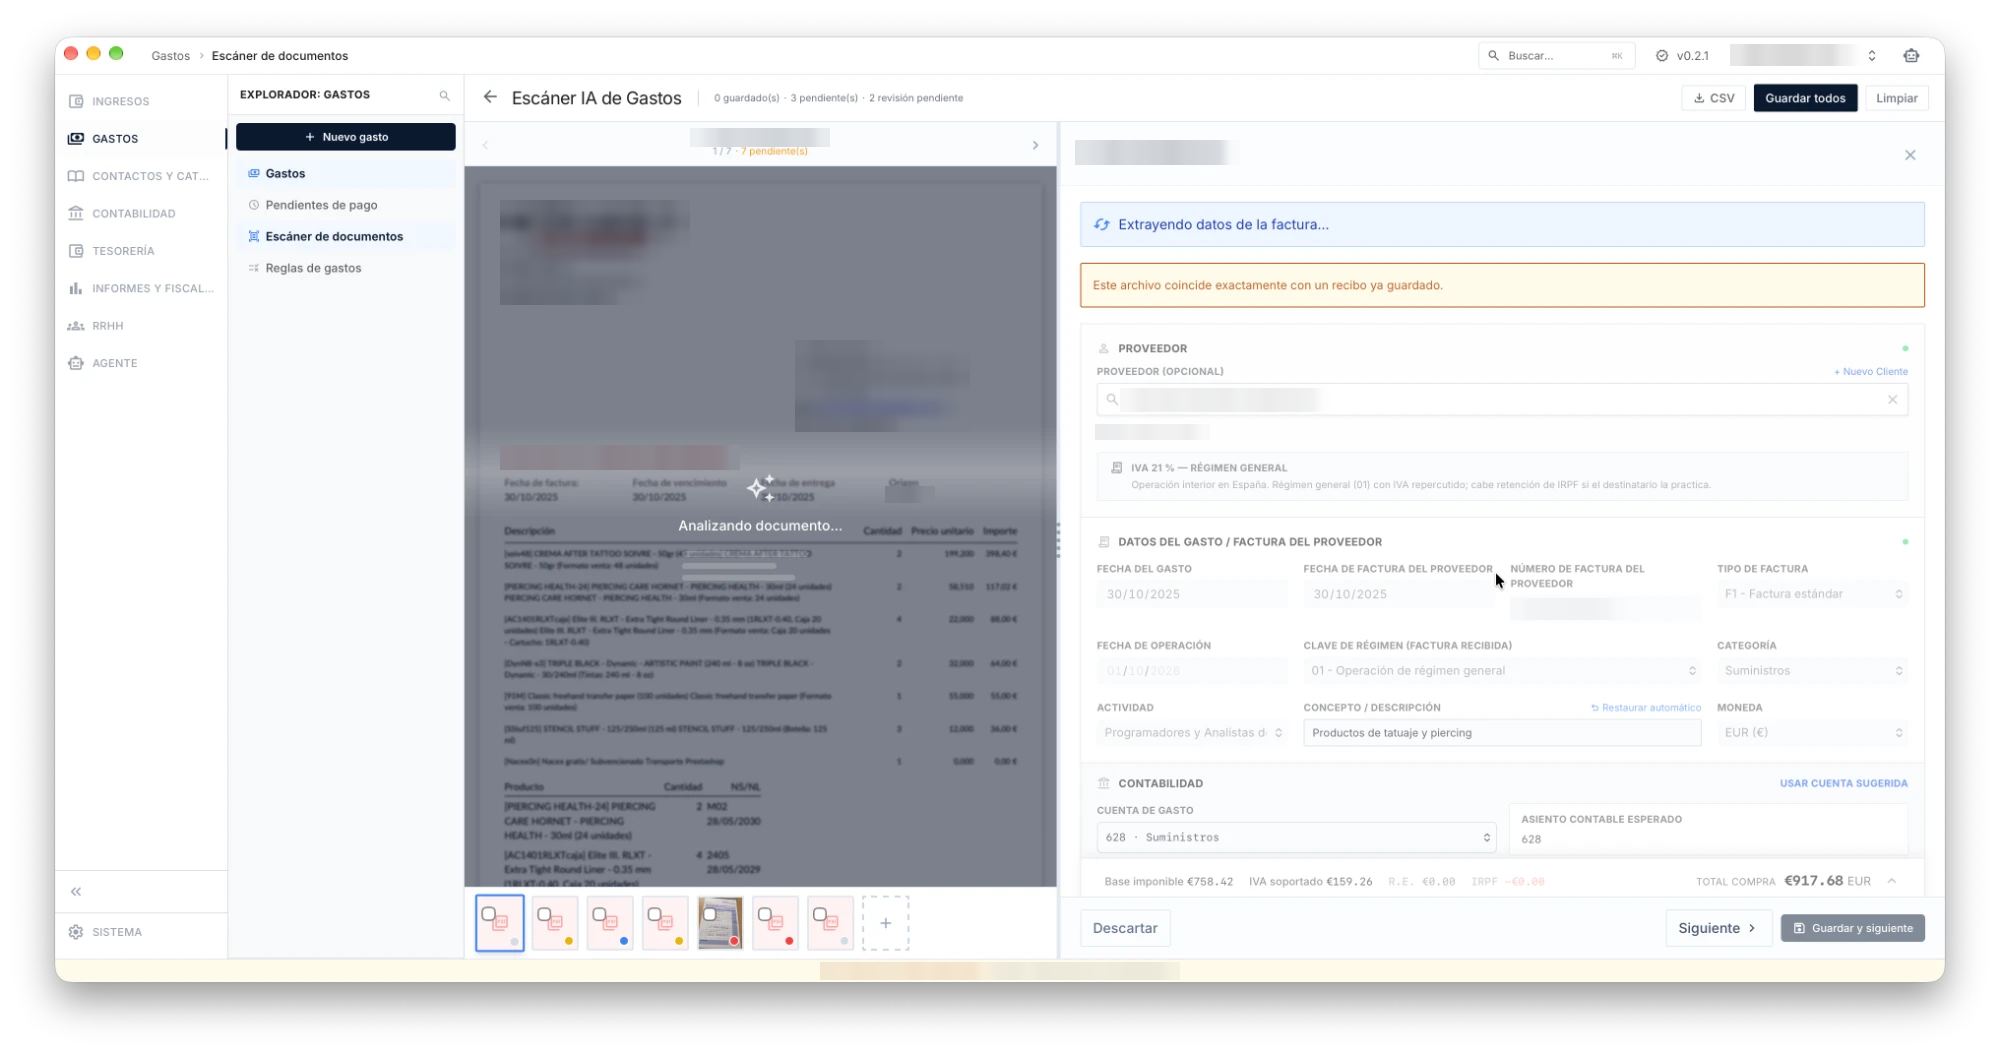
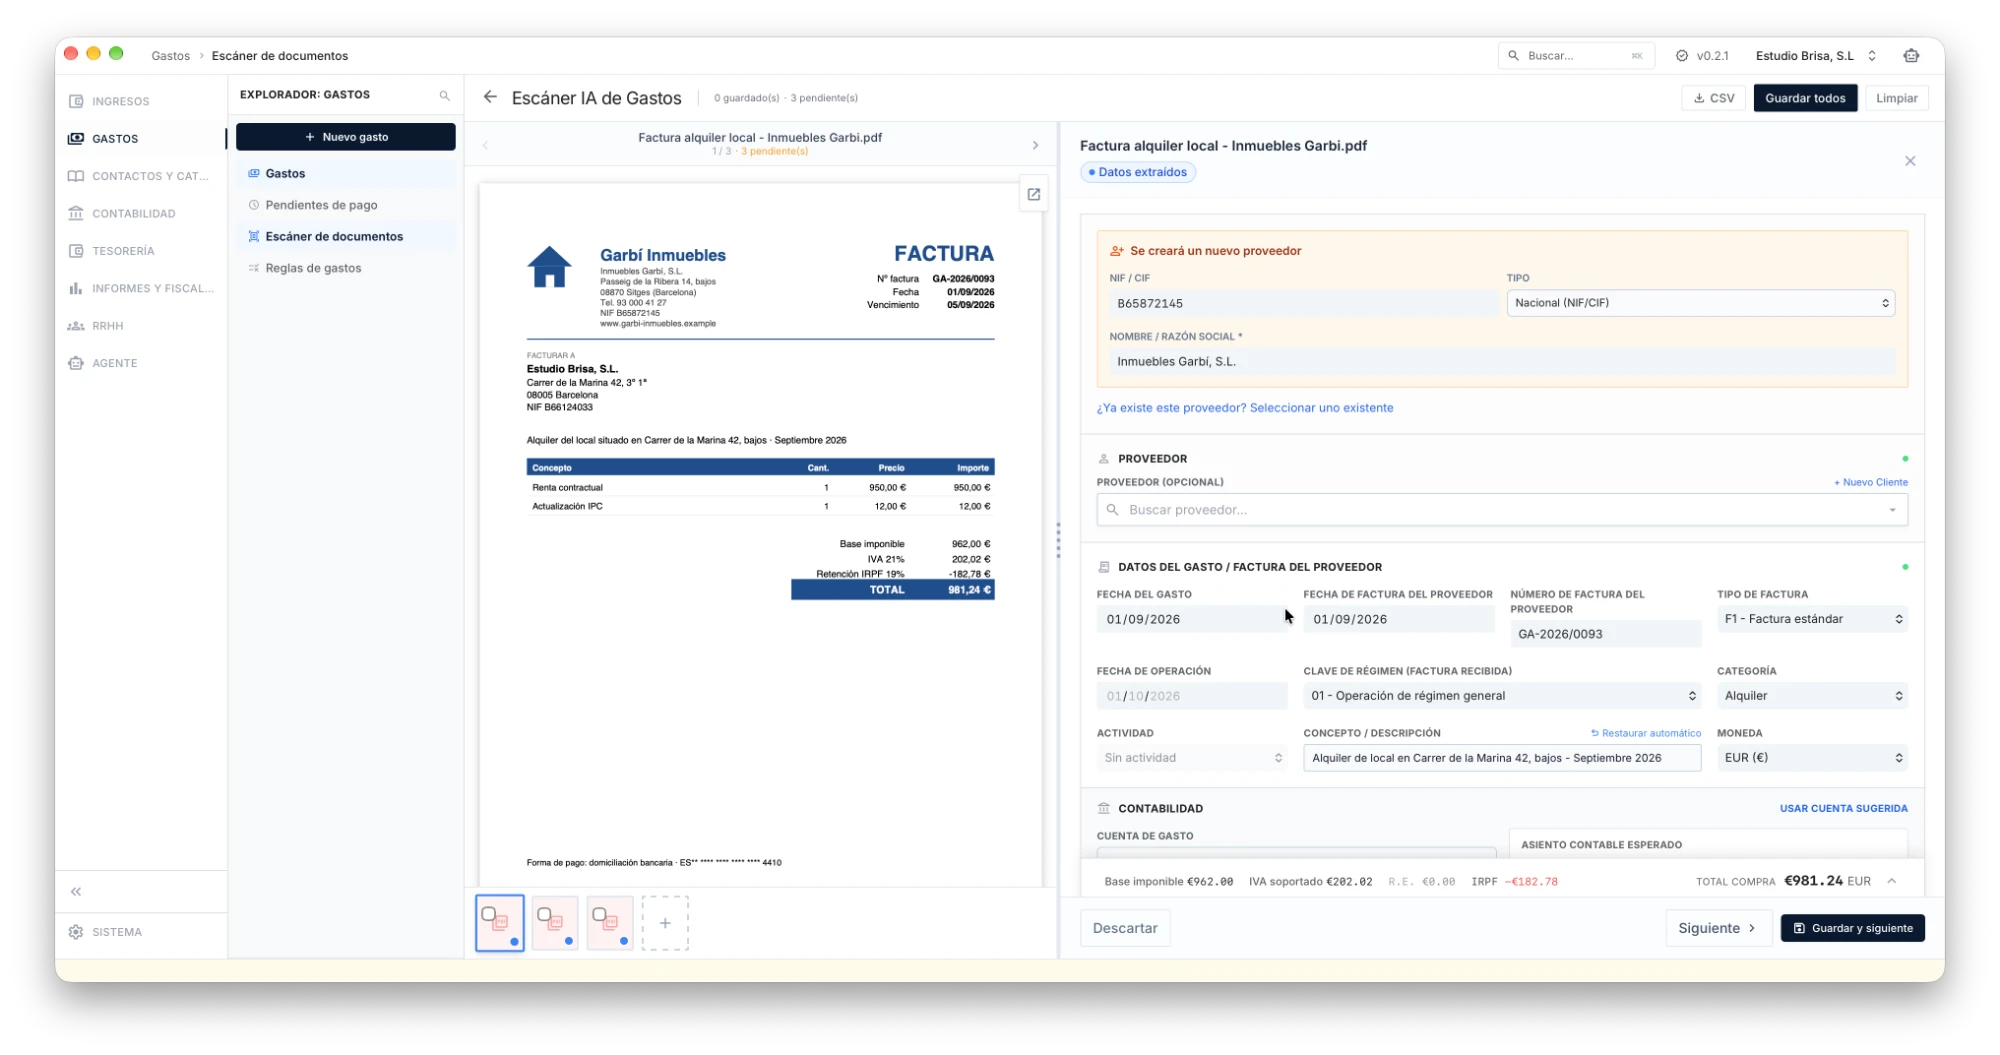
docs: replace the scanner screenshot with one using demo data

diff --git a/README.md b/README.md
@@ -85,7 +85,7 @@ Antes de guardar nada, **comprueba**:
 - 🧾 **Si de verdad es para ti**: te avisa si la factura va dirigida a otra empresa.
 
 <p align="center">
-  <img src="docs/screenshots/escaner.png" alt="Escáner de gastos de Fixco avisando de que el archivo ya estaba guardado y sugiriendo la cuenta de gasto" width="900">
+  <img src="docs/screenshots/escaner.png" alt="Escáner de gastos de Fixco: la factura de alquiler leída con su IVA y retención, y el proveedor nuevo detectado" width="900">
 </p>
 
 Y para los cobros: **importa el extracto del banco** y Fixco descarta los movimientos que ya tenías y te propone con qué factura casar cada uno.
